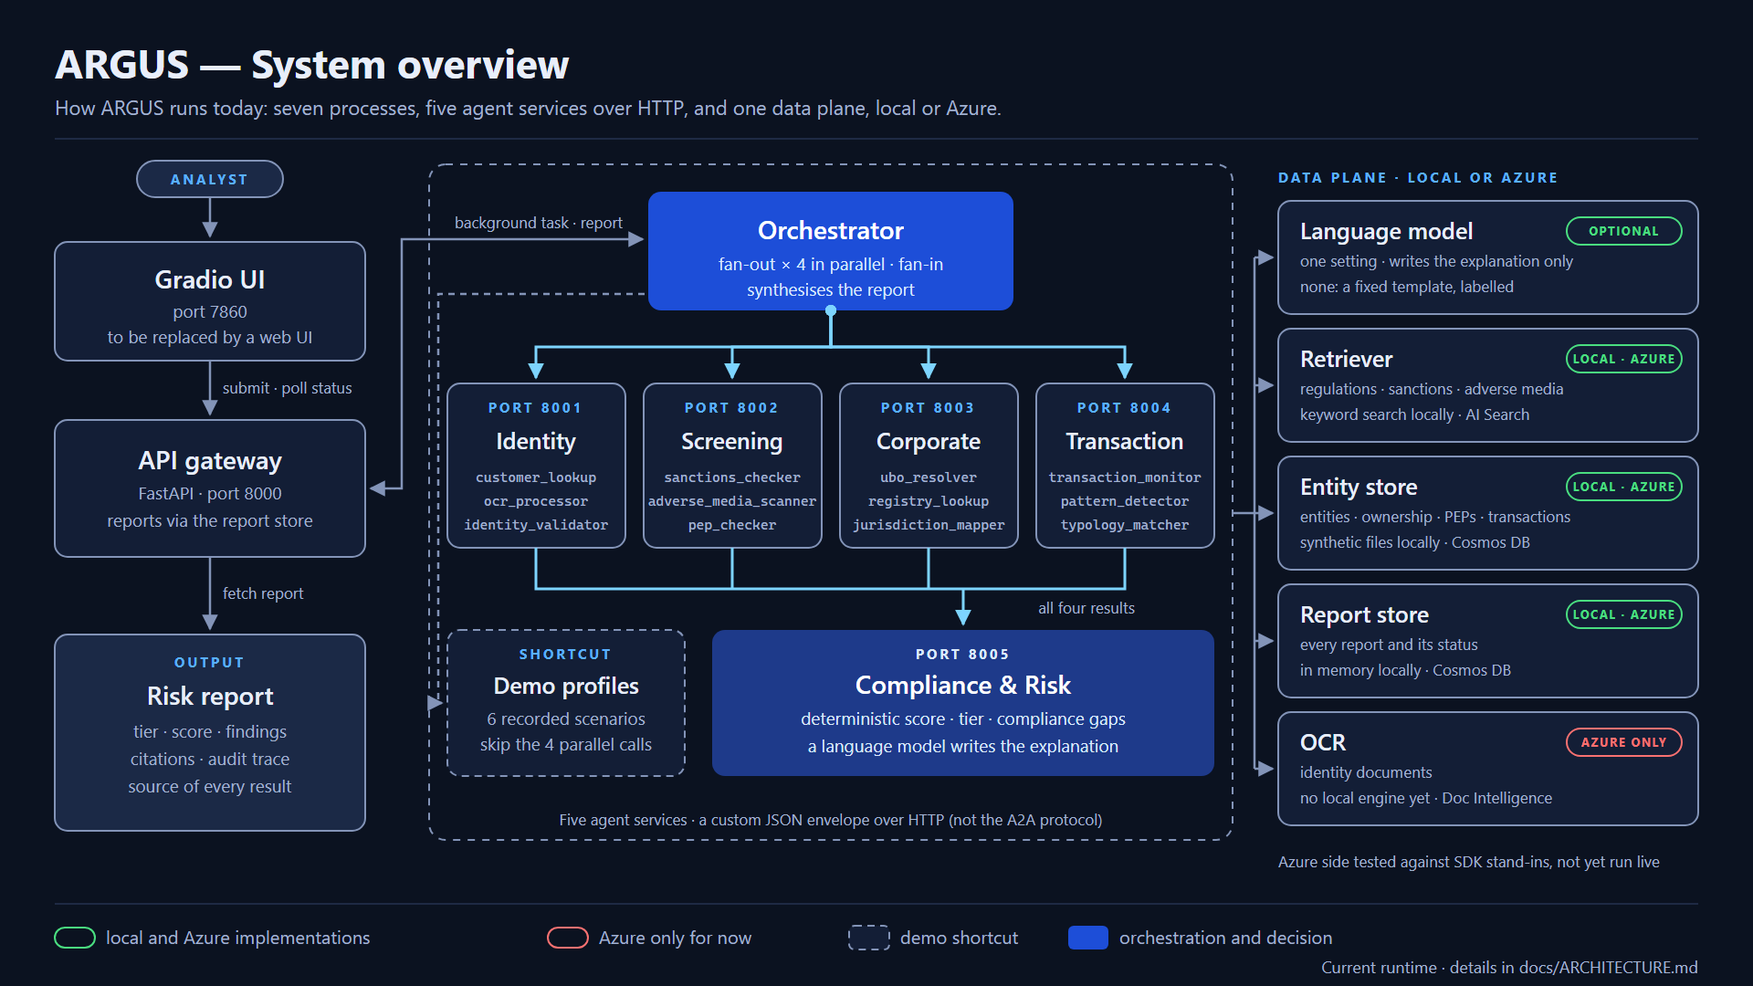
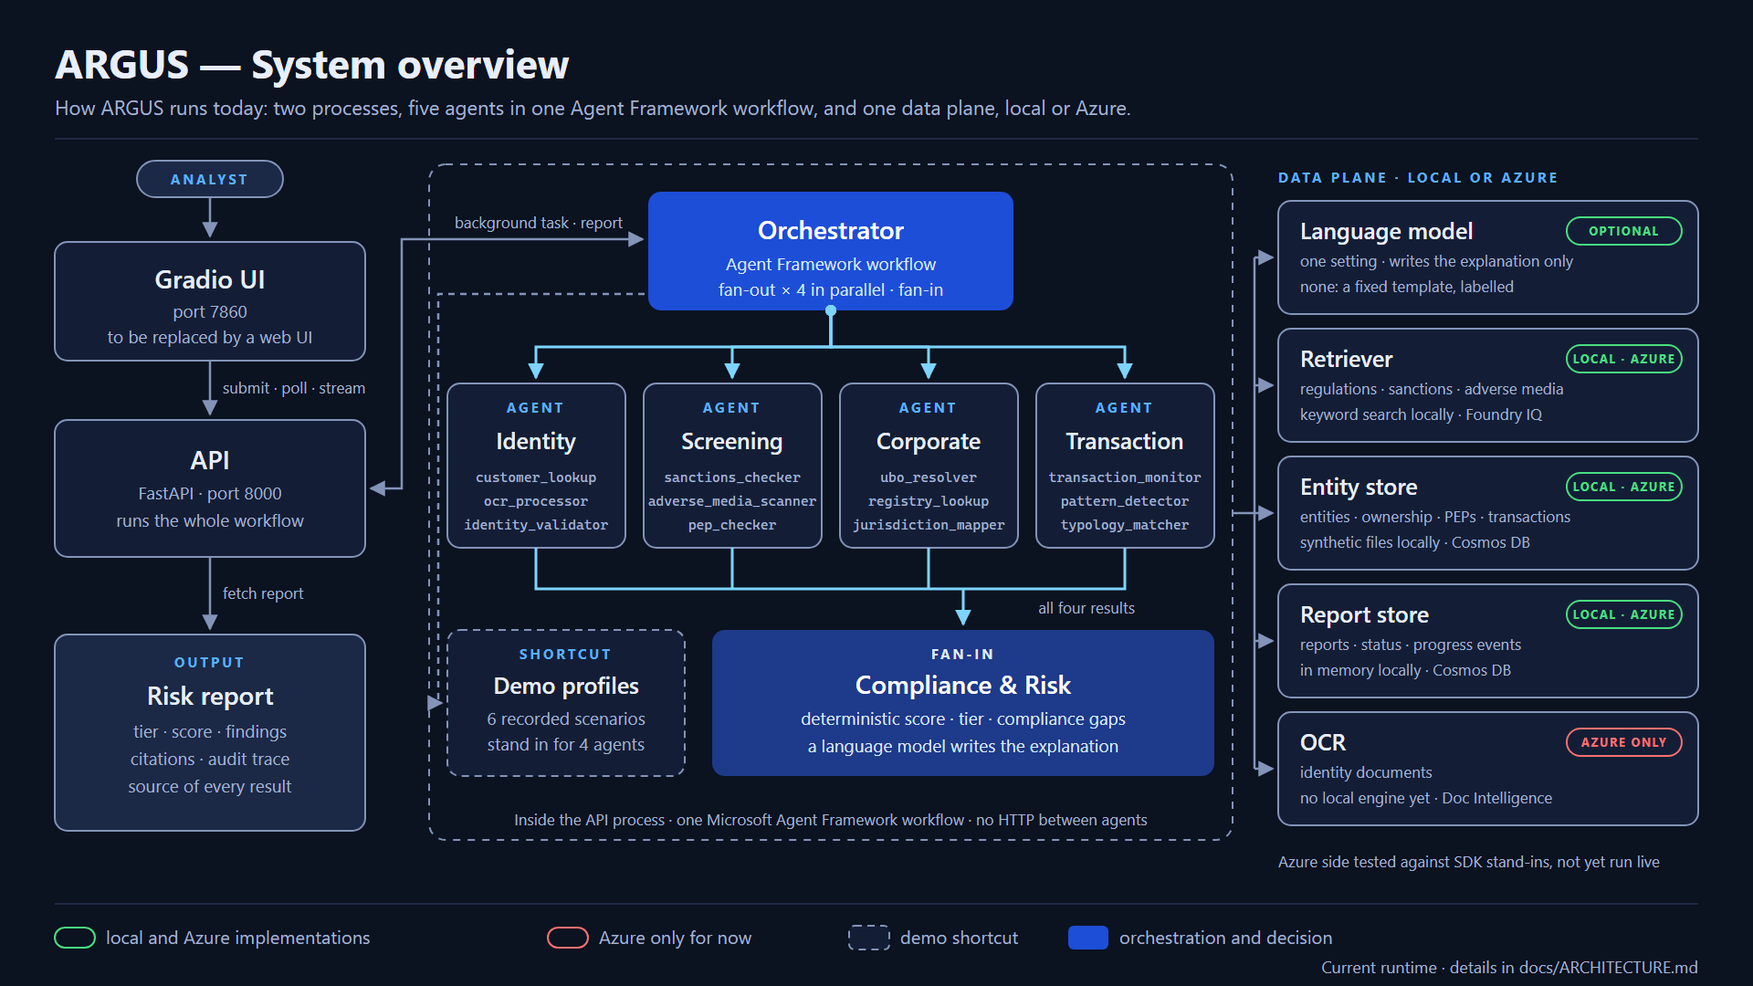
docs: describe the one-process runtime, the progress stream and Foundry IQ retrieval
README, AGENTS.md and docs/ARCHITECTURE.md now describe what the code does: two processes (API
and UI) instead of seven, the five agents as steps of one Agent Framework workflow inside the
API, the server-sent progress stream and GET /health, the pinned API contract, Foundry IQ
knowledge-base retrieval, and the reasoning-model setting. The system overview is redrawn for one
process (no ports per agent, no HTTP envelope; the report store also keeps progress events) and
its variants and PNGs re-rendered. CHANGELOG records each change and how it was checked.

Checked: check_docs, markdownlint (0 issues) and render_assets --check (WCAG AA) pass.

diff --git a/docs/ARCHITECTURE.md b/docs/ARCHITECTURE.md
@@ -9,7 +9,7 @@ and is no longer maintained.
   <picture>
     <source media="(prefers-color-scheme: dark)" srcset="../assets/architecture/system-overview-dark.svg">
     <source media="(prefers-color-scheme: light)" srcset="../assets/architecture/system-overview-light.svg">
-    <img width="100%" src="../assets/architecture/system-overview-light.svg" alt="The current ARGUS runtime: UI, gateway, orchestrator and five agent services, reading data through one data plane with an Azure and a local implementation."/>
+    <img width="100%" src="../assets/architecture/system-overview-light.svg" alt="The current ARGUS runtime: the Gradio UI calls one API process, which runs the orchestrator's Agent Framework workflow (four agents in parallel, then compliance) and reads data through one data plane with an Azure and a local implementation."/>
   </picture>
 </p>
 
@@ -19,39 +19,58 @@ The diagram's sources and the one-request walkthrough
 
 ## Processes
 
-A local run is seven processes:
+A local run is two processes:
 
 | Process | Entry point | Port | Role |
 | --- | --- | --- | --- |
-| API gateway | `src/argus/api/main.py` | 8000 | Accepts KYC requests, runs the orchestrator as a background task, serves reports |
-| Identity agent | `src/argus/agents/identity/agent.py` | 8001 | Customer lookup, OCR, identity validation |
-| Screening agent | `src/argus/agents/screening/agent.py` | 8002 | Sanctions, adverse media, PEP checks |
-| Corporate agent | `src/argus/agents/corporate/agent.py` | 8003 | Ownership (UBO), registry lookup, jurisdiction risk |
-| Transaction agent | `src/argus/agents/transaction/agent.py` | 8004 | Transaction monitoring, patterns, typology matching |
-| Compliance agent | `src/argus/agents/compliance/agent.py` | 8005 | Regulations lookup, risk scoring, gap analysis, explanation |
-| UI | `src/argus/ui/gradio_app.py` | 7860 | Gradio front end that calls the API gateway |
+| API | `src/argus/api/main.py` | 8000 | Accepts KYC requests, runs each assessment's workflow in this process, streams its progress, serves reports |
+| UI | `src/argus/ui/gradio_app.py` | 7860 | Gradio front end that calls the API |
 
-`scripts/dev/start_demo.ps1` starts all seven on Windows and `scripts/dev/end_demo.ps1` stops them.
+The five agents are not services: each is a module with one `assess(request, task_id)` function,
+run as a step of the orchestrator's workflow inside the API process.
+
+| Agent | Module | Role |
+| --- | --- | --- |
+| Identity | `src/argus/agents/identity/agent.py` | Customer lookup, OCR, identity validation |
+| Screening | `src/argus/agents/screening/agent.py` | Sanctions, adverse media, PEP checks |
+| Corporate | `src/argus/agents/corporate/agent.py` | Ownership (UBO), registry lookup, jurisdiction risk |
+| Transaction | `src/argus/agents/transaction/agent.py` | Transaction monitoring, patterns, typology matching |
+| Compliance | `src/argus/agents/compliance/agent.py` | Regulations lookup, risk scoring, gap analysis, explanation |
+
+`scripts/dev/start_demo.ps1` starts both on Windows and `scripts/dev/end_demo.ps1` stops them.
+`uv run python scripts/dev/run_demo_inprocess.py` runs one assessment without either.
 
 ## Request flow
 
-1. The UI posts to `POST /api/v1/kyc/assess`. The gateway returns a `report_id` immediately and
-   runs `src/argus/agents/orchestrator/agent.py` as a FastAPI background task.
-2. **Fan-out.** The orchestrator calls the Identity, Screening, Corporate and Transaction agents in
-   parallel. Each call is an HTTP `POST /a2a/invoke` carrying a custom JSON envelope
-   (`a2a_version`, `source_agent`, `target_agent`, `task_id`, `payload`). Despite the name, this is
-   **not** the A2A protocol specification.
-3. **Fan-in.** The orchestrator sends all four results to the Compliance agent, which computes the
-   risk score, tier and gaps deterministically and asks a language model for a short explanation.
-4. The gateway stores the report through the data plane's `ReportStore`: in memory with the local
-   backend (lost when the gateway restarts), in Cosmos DB (`kyc_reports`) with the Azure backend.
-   The UI polls `GET /api/v1/kyc/status/{id}` and `GET /api/v1/kyc/report/{id}`.
+1. The UI posts to `POST /api/v1/kyc/assess`. The API returns a `report_id` immediately and runs
+   the assessment as a FastAPI background task.
+2. The orchestrator (`src/argus/agents/orchestrator/agent.py`) runs the assessment as one
+   **Microsoft Agent Framework workflow** (`agent-framework-core`, pinned to an exact version),
+   built with `WorkflowBuilder`: a dispatch step, then a **fan-out** to the Identity, Screening,
+   Corporate and Transaction agents, which run concurrently, then a **fan-in** to the Compliance
+   agent, which receives all four results, computes the risk score, tier and gaps
+   deterministically and asks a language model for a short explanation. No model takes part in
+   the workflow's routing; it is a fixed graph.
+3. Each agent's start and finish (with its `source` and any `fallbacks`) is recorded through the
+   data plane's `ReportStore` as it happens. `GET /api/v1/kyc/stream/{id}` sends these as
+   server-sent events (`agent_started`, `agent_completed`, then one `status` event), replaying
+   what was recorded before the client connected; a client that reconnects with `Last-Event-ID`
+   resumes after the last event it received.
+4. The API stores the report through the `ReportStore`: in memory with the local backend (lost
+   when the API restarts), in Cosmos DB (`kyc_reports`) with the Azure backend. The UI polls
+   `GET /api/v1/kyc/status/{id}` and `GET /api/v1/kyc/report/{id}`. `GET /health` answers while
+   the process is up.
+
+The API's shape is pinned by `tests/test_api_contract.py`: the reviewed OpenAPI document in
+`tests/fixtures/openapi.json`, and the fields of the report and of the progress events.
 
 **Demo shortcut.** When the entity matches one of the six demo scenarios
-(`src/argus/utils/demo_profiles.py`), the orchestrator skips the four parallel agents and uses the recorded
-profile. The compliance fan-in still runs live.
+(`src/argus/utils/demo_profiles.py`), the four parallel steps use the recorded profile instead of
+running their agents. The compliance fan-in still runs live.
 
-An agent that is unreachable is recorded as `status: error` and the assessment continues without it.
+An agent that raises is recorded as `status: error`, `source: unavailable`, and the assessment
+continues without it. There is no A2A protocol: if a process boundary is ever needed, the plan is
+the real protocol through Agent Framework's A2A support, not a custom envelope.
 
 ## Risk scoring
 
@@ -110,7 +129,7 @@ Every agent response carries a `source`, and the report's `audit_trace` collects
 | `computed` | Every tool the agent ran answered from the configured data plane |
 | `fallback` | At least one tool's service was unavailable; that tool returned a result that asserts nothing (not found, no hits, no fields read). `audit_trace.fallbacks` names the tools. |
 | `demo_profile` | A recorded demo scenario, not computed |
-| `unavailable` | The agent itself could not be reached |
+| `unavailable` | The agent itself failed, so there is no result |
 
 The report's `explanation_source` says whether a language model wrote the explanation (`model`) or
 the fixed template did (`fallback`). `audit_trace.retrieval_queries` counts only knowledge-base
@@ -121,8 +140,8 @@ finds nothing relevant, the report lists none. A typology search that falls back
 patterns ARGUS's own rules detected (`source: rules`, no document cited), and the transaction
 agent is marked `fallback`.
 
-Each service loads the repository's `.env` itself (through the data plane, the model factory and
-the gateway), so a setting there takes effect however the service is started.
+The repository's `.env` is loaded by the data plane, the model factory and the API, whichever is
+imported first, so a setting there takes effect however ARGUS is started.
 
 ## Data plane
 
@@ -132,14 +151,15 @@ the implementation set:
 
 | Interface | Used by | `local` (default) | `azure` |
 | --- | --- | --- | --- |
-| `Retriever` | `regulations_rag`, `sanctions_checker`, `adverse_media_scanner`, `typology_matcher` | Keyword search, weighted by word rarity, over the same documents the Azure indexes hold | Azure AI Search, semantic ranker |
+| `Retriever` | `regulations_rag`, `sanctions_checker`, `adverse_media_scanner`, `typology_matcher` | Keyword search, weighted by word rarity, over the same documents the Azure indexes hold | Foundry IQ knowledge bases: the retrieve action on Azure AI Search (stable API 2026-04-01; semantic intent, minimal extractive retrieval, no model), ranked by the semantic reranker |
 | `EntityStore` | `customer_lookup`, `registry_lookup`, `ubo_resolver`, `pep_checker`, `transaction_monitor` | `data/synthetic/*.jsonl` | Cosmos DB |
-| `ReportStore` | The API gateway | In memory | Cosmos DB `kyc_reports` |
+| `ReportStore` | The API (reports, status and progress events) | In memory | Cosmos DB `kyc_reports` |
 | `OCR` | `ocr_processor` | None yet: documents are reported as unread (`fallback`) | Document Intelligence, prebuilt ID model |
 
 The regulations corpus and the builders that turn synthetic records into search documents live in
 `src/argus/data_plane/corpus.py`, and `infra/foundry_iq/` uploads exactly those documents, so both
-backends answer from the same content. A screening hit also needs every word of the entity's name,
+backends answer from the same content. `infra/foundry_iq/create_knowledge_bases.py` creates, for each
+of the three knowledge bases, its index, a knowledge source over that index, and the knowledge base. A screening hit also needs every word of the entity's name,
 or of one alias, to appear in the retrieved passage.
 
 With the local backend, a fresh clone without generated data finds nothing and says so; run the

diff --git a/README.md b/README.md
@@ -72,11 +72,11 @@ ARGUS is being rebuilt after the hackathon. This table is the honest state of th
 
 | Capability | Status |
 | --- | --- |
-| Orchestrator fan-out and fan-in across five agents | ✅ Works. Each agent is its own FastAPI service; they exchange a custom JSON envelope over HTTP. |
+| Orchestrator fan-out and fan-in across five agents | ✅ Works, as one in-process Microsoft Agent Framework workflow inside the API. `GET /api/v1/kyc/stream/{id}` follows each agent's progress as server-sent events. |
 | Deterministic risk scoring, tiering and gap analysis | ✅ Works |
 | Plain-English decision explanation | ✅ Works with the model chosen by `ARGUS_MODEL_PROVIDER` (Azure OpenAI, OpenAI or GitHub Models); without one, a fixed template, labelled as such |
 | **Local data plane** (default): knowledge-base search, entities, ownership, transactions, reports | ✅ Works with no cloud account, on the synthetic data in `data/`. A clone without generated data finds nothing, and says so. |
-| **Azure data plane** (`ARGUS_DATA_BACKEND=azure`): AI Search, Cosmos DB, Document Intelligence | ⚠ Built and tested against stand-ins for the Azure SDKs; **not yet run against live services**. That happens with the deployment work. |
+| **Azure data plane** (`ARGUS_DATA_BACKEND=azure`): Foundry IQ knowledge bases on AI Search, Cosmos DB, Document Intelligence | ⚠ Built and tested against stand-ins for the Azure SDKs; **not yet run against live services**. That happens with the deployment work. |
 | OCR without Azure | ⚠ No local OCR engine yet: documents are reported as unread, labelled `fallback` |
 | The six demo scenarios below | ⚠ Their parallel-agent results come from recorded demo profiles ([`utils/demo_profiles.py`](src/argus/utils/demo_profiles.py)), not live calls. The compliance fan-in still runs live. |
 | Gradio UI | ✅ Works |
@@ -97,13 +97,13 @@ ARGUS was selected as **1 of 3 Hack for Good winners** in the Microsoft Agents L
   <picture>
     <source media="(prefers-color-scheme: dark)" srcset="assets/architecture/system-overview-dark.svg">
     <source media="(prefers-color-scheme: light)" srcset="assets/architecture/system-overview-light.svg">
-    <img width="100%" src="assets/architecture/system-overview-light.svg" alt="The current runtime: Gradio UI, FastAPI gateway, orchestrator and five agent services over HTTP, reading data through one data plane: local synthetic data by default, or Azure AI Search, Cosmos DB and Document Intelligence."/>
+    <img width="100%" src="assets/architecture/system-overview-light.svg" alt="The current runtime: the Gradio UI calls one FastAPI process, which runs the orchestrator's Agent Framework workflow (four agents in parallel, then compliance) and reads data through one data plane: local synthetic data by default, or Foundry IQ knowledge bases, Cosmos DB and Document Intelligence."/>
   </picture>
 </p>
 
 | Agent | Tools | Knowledge source |
 | --- | --- | --- |
-| 🎯 Orchestrator | fan-out / fan-in coordination | — |
+| 🎯 Orchestrator | Agent Framework workflow: fan-out / fan-in | — |
 | 🪪 Identity | customer_lookup, ocr_processor, identity_validator | Entity store, OCR |
 | 🔍 Screening | sanctions_checker, adverse_media_scanner, pep_checker | Sanctions and adverse media knowledge bases, entity store |
 | 🏢 Corporate Intelligence | ubo_resolver, registry_lookup, jurisdiction_mapper | Entity store (ownership graph) |
@@ -129,7 +129,7 @@ The next version is planned in [`docs/ARGUS-V2-PLAN.md`](docs/ARGUS-V2-PLAN.md).
 In short:
 
 - **A focused experiment first.** Can ARGUS produce simpler explanations while preserving evidence, uncertainty, and the need for human review? It will be measured on a fixed evaluation set and written up, including failures.
-- **A simpler runtime.** One process instead of six, built on Microsoft Agent Framework (replacing the custom HTTP envelope), with a Next.js UI replacing Gradio.
+- **A simpler runtime.** Done: one process on Microsoft Agent Framework instead of six services. Next: one container, and a Next.js UI replacing Gradio.
 - **All three Microsoft IQs.** Foundry IQ for cited regulatory knowledge, Fabric IQ for evaluation data and corporate-ownership relationships, and Work IQ for case-handover context.
 - **Neutral where it's cheap.** The model provider, the container host, the tools (MCP) and telemetry can be swapped by configuration. The data plane stays Azure, with a local implementation for tests and self-hosting.
 
@@ -180,17 +180,14 @@ cp .env.example .env    # optional: choose a model provider or the Azure backend
 
 For a populated local data set, generate the synthetic data once: `uv run python data/synthetic/generate_entities.py`, and the other `generate_*.py` scripts in that folder.
 
-Start the stack. On Windows, `scripts/dev/start_demo.ps1` starts everything and `scripts/dev/end_demo.ps1` stops it. Elsewhere, start each process in its own terminal:
+Start ARGUS: the API (which runs every agent in-process) and the UI. On Windows, `scripts/dev/start_demo.ps1` starts both and `scripts/dev/end_demo.ps1` stops them. Elsewhere, start each in its own terminal:
 
 ```bash
-uv run uvicorn argus.agents.identity.agent:app --port 8001
-uv run uvicorn argus.agents.screening.agent:app --port 8002
-uv run uvicorn argus.agents.corporate.agent:app --port 8003
-uv run uvicorn argus.agents.transaction.agent:app --port 8004
-uv run uvicorn argus.agents.compliance.agent:app --port 8005
 uv run uvicorn argus.api.main:app --port 8000
 uv run python -m argus.ui.gradio_app    # then open http://localhost:7860
 ```
+
+Or run one assessment without either: `uv run python scripts/dev/run_demo_inprocess.py`.
 
 Run the same checks as CI:
 

diff --git a/CHANGELOG.md b/CHANGELOG.md
@@ -15,6 +15,16 @@ are listed in [`archive/hackathon-2026/README.md`](archive/hackathon-2026/README
 
 ### Added
 
+- **An assessment can be followed as it runs.** `GET /api/v1/kyc/stream/{id}` sends server-sent
+  events: each agent's start and finish (with its `source` and any fallbacks), then the final
+  status. Events are kept in the report store, so a late or reconnecting client (`Last-Event-ID`)
+  misses nothing. Checked: tests for replay, resume, 404, a running assessment and the time
+  limit, and one assessment streamed by hand through uvicorn.
+- **The API contract is pinned.** `tests/test_api_contract.py` compares the OpenAPI document with
+  the reviewed `tests/fixtures/openapi.json` and pins the fields of the report and of the
+  progress events, checked on reports computed by the real workflow.
+- **`GET /health`** answers while the API process is up.
+
 - **SonarQube Cloud analyses every pull request** (automatic analysis, quality gate on new code).
 - **Ruff now also checks security, complexity and error handling.** Added rule sets: security
   (`S`, the bandit rules), complexity (`C90`, at most 10 branches per function), async misuse
@@ -100,6 +110,21 @@ are listed in [`archive/hackathon-2026/README.md`](archive/hackathon-2026/README
 
 ### Changed
 
+- **One process runs the whole assessment, as a Microsoft Agent Framework workflow.** The
+  orchestrator builds a fixed graph with `WorkflowBuilder` (`agent-framework-core` pinned to
+  1.19.0): the Identity, Screening, Corporate and Transaction agents run concurrently, then fan in
+  to Compliance. The agents are plain functions called in-process; no model routes the workflow.
+  A local run is now the API and the UI (ports 8000 and 7860) instead of seven processes. An agent
+  that raises is reported as `unavailable` and the others continue, as before. Checked: the six
+  demo scenarios give the same tiers, scores, findings and actions (unchanged fixture), and
+  orchestrator tests cover fan-in, failure, demo profiles and event order.
+- **The Azure retriever uses Foundry IQ knowledge bases** instead of querying the search indexes
+  directly: the retrieve action of the stable 2026-04-01 API, with a semantic intent (minimal,
+  extractive retrieval, no model), ranked by the semantic reranker.
+  `infra/foundry_iq/create_knowledge_bases.py` now also creates the knowledge sources and the
+  knowledge bases. Checked against a stand-in client with the SDK's request models; not yet
+  against a live search service.
+
 - **The Gradio UI listens on this machine only by default** (it listened on all interfaces). Set
   `GRADIO_SERVER_NAME=0.0.0.0` to expose it.
 - **A potential sanctions match holds the case at CRITICAL, whatever the weighted score.**
@@ -178,6 +203,13 @@ are listed in [`archive/hackathon-2026/README.md`](archive/hackathon-2026/README
 
 ### Fixed
 
+- **Explanations work with GPT-5 and o-series models.** They reject `max_tokens` and
+  `temperature`, so every explanation from the planned `gpt-5.4-mini` deployment would have
+  fallen back to the template. Reasoning models now get `max_completion_tokens` only;
+  `ARGUS_MODEL_REASONING` (`auto`, `true`, `false`) says which kind the model is. The prompts are
+  unchanged. Checked by tests on the arguments sent; not yet against a live model.
+- **`scripts/dev/start_demo.ps1` parses again**: a corrupted line had broken it.
+
 - **The Cosmos transactions query passes its row limit as a query parameter** instead of
   formatting it into the SQL text. The value was already an integer, so this was not exploitable.
   Not yet run against a live Cosmos account.
@@ -232,6 +264,10 @@ are listed in [`archive/hackathon-2026/README.md`](archive/hackathon-2026/README
   treat the parent directory as the import root. Checked: 50 passed, 1 xfailed.
 
 ### Removed
+
+- **The five per-agent FastAPI services and their custom `/a2a/invoke` JSON envelope** (never the
+  A2A protocol), the `*_AGENT_URL` settings, and the admin endpoints that listed and polled the
+  services (`/api/v1/admin/agents`, `/api/v1/admin/health`).
 
 - **`azure-ai-projects`**, which only backed a knowledge-base call that didn't exist, and the old
   model settings `USE_GITHUB_MODELS` and `AZURE_OPENAI_API_VERSION` (replaced by

diff --git a/AGENTS.md b/AGENTS.md
@@ -6,11 +6,11 @@ and [`CONTRIBUTING.md`](CONTRIBUTING.md) is its short version for first-time con
 
 ## What ARGUS is
 
-ARGUS is a multi-agent KYC (know-your-customer) risk screening system in Python: five FastAPI
-agent services, an orchestrator, a FastAPI gateway and a Gradio UI. Fixed rules compute the risk
-score and tier; a language model only writes the explanation. It won a Hack for Good award in the
-Microsoft Agents League 2026 and is now being cleaned up before the v2 work in
-[`docs/ARGUS-V2-PLAN.md`](docs/ARGUS-V2-PLAN.md).
+ARGUS is a multi-agent KYC (know-your-customer) risk screening system in Python: a FastAPI API
+that runs five agents as one in-process Microsoft Agent Framework workflow, and a Gradio UI. Fixed
+rules compute the risk score and tier; a language model only writes the explanation. It won a Hack
+for Good award in the Microsoft Agents League 2026 and is now being cleaned up before the v2 work
+in [`docs/ARGUS-V2-PLAN.md`](docs/ARGUS-V2-PLAN.md).
 
 State as of 2026-09-27: every tool reads through a data plane with a local implementation
 (synthetic data, the default, no cloud account) and an Azure one that is not yet verified against
@@ -114,8 +114,8 @@ Inside `src/argus/`:
 
 | Package | What it holds |
 | --- | --- |
-| `agents/` | The orchestrator and the five agent services, each with its `tools/` |
-| `api/` | The FastAPI gateway and its request/response schemas |
+| `agents/` | The orchestrator (the Agent Framework workflow) and the five agents, each with its `tools/` |
+| `api/` | The FastAPI API (submit, status, report, progress stream) and its request schemas |
 | `ui/` | The Gradio UI (to be replaced by a web UI in v2) |
 | `data_plane/` | The four data interfaces (retriever, entity store, report store, OCR), each with a local and an Azure implementation |
 | `utils/` | Shared helpers: `.env` loader, JSON logger, the six recorded demo profiles |

diff --git a/assets/README.md b/assets/README.md
@@ -28,7 +28,7 @@ The GitHub social preview can't be set from the repository: upload
 
 | Master | Shows | Exports |
 | --- | --- | --- |
-| [`architecture/system-overview.svg`](architecture/system-overview.svg) | The **current** runtime: processes, ports, the agent services and the data plane with its local and Azure implementations | light/dark SVG, PNG |
+| [`architecture/system-overview.svg`](architecture/system-overview.svg) | The **current** runtime: the two processes, the Agent Framework workflow and its five agents, and the data plane with its local and Azure implementations | light/dark SVG, PNG |
 | [`architecture/investigation-flow.svg`](architecture/investigation-flow.svg) | One KYC request end to end, with the scoring rules and weights as coded, and which steps are deterministic and which use a language model | light/dark SVG, PNG, GIF |
 | [`architecture/v2-target.svg`](architecture/v2-target.svg) | The **planned** v2 runtime from [`docs/ARGUS-V2-PLAN.md`](../docs/ARGUS-V2-PLAN.md), labelled as not built | light/dark SVG, PNG |
 
